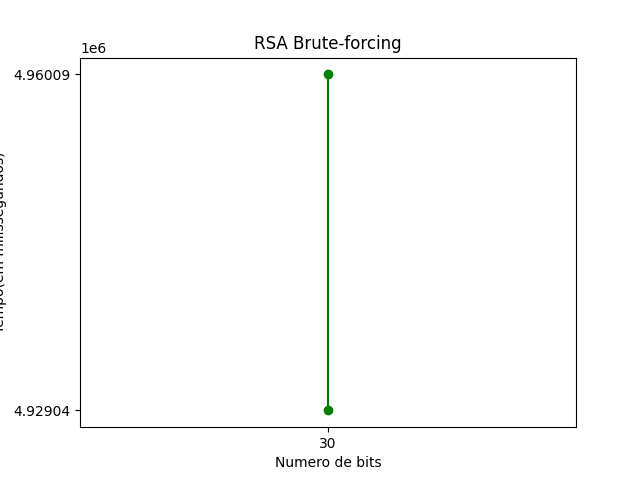
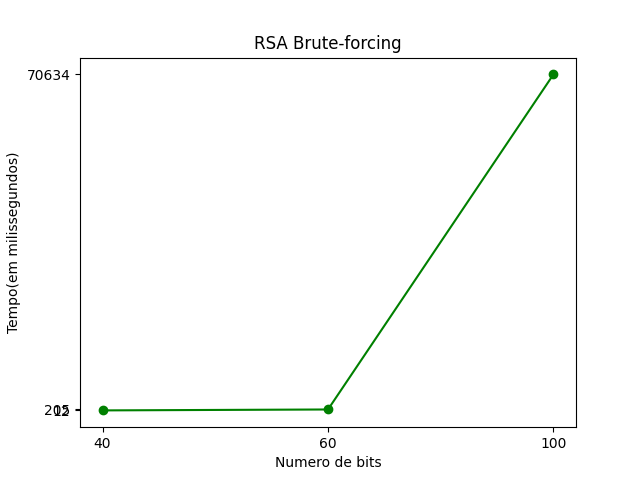
fix graphs

diff --git a/src/RSA.java b/src/RSA.java
@@ -28,7 +28,6 @@ class RSA {
       O construtor new Biginter(bitLenght,certainty,rnd) gera um numero PROVAVELMENTE primo, 
       onde essa probabilidade é de ( 1 - 1/2 ^ certainty)
     */
-    Instant generate_key_start = Instant.now();
     BigInteger p = new BigInteger(bitlen /2, 100, secureRandom); 
     BigInteger q = new BigInteger(bitlen /2, 100, secureRandom); 
 
@@ -55,7 +54,6 @@ class RSA {
     // d deve ser o inverso multiplicativo de "e"
     d = euclidian_extended(e,phi);
 
-    Instant generate_key_end = Instant.now();
     
     System.out.println("Bits: " + bitlen);
     System.out.println("Chave Publica (n,e)");
@@ -70,10 +68,8 @@ class RSA {
     
     
     // Define a mensagem cifrada
-    Instant generate_cipher_start = Instant.now();
     CIPHER_MESSAGE = new BigInteger(MESSAGE.getBytes()).modPow(e, n).toString();
     System.out.println("MENSAGEM CIFRADA:\n"+ CIPHER_MESSAGE);
-    Instant generate_cipher_end = Instant.now();
     
     
     // Define a mensagem decifrada
@@ -117,38 +113,19 @@ class RSA {
     
 
     // Escreve os tempos nos arquivos
-    File keyFile;
-    File cipherFile;
     File bruteFile;
     
-    PrintWriter keyWriter = null;
-    PrintWriter cipherWriter = null;
     PrintWriter bruteWriter = null;
     try{
-
-      // key
-      keyFile = new File("key.txt");
-      keyWriter = new PrintWriter(new FileWriter(keyFile,true));
-      keyWriter.print(bitlen + " ");
-      keyWriter.println(Duration.between(generate_key_start, generate_key_end).toMillis());
-      
-      // cipher
-      cipherFile = new File("cipher.txt");
-      cipherWriter = new PrintWriter(new FileWriter(cipherFile,true));
-      cipherWriter.print(bitlen + " ");
-      cipherWriter.println(Duration.between(generate_cipher_start, generate_cipher_end).toNanos());
-
       // brute
       bruteFile = new File("brute.txt");
       bruteWriter = new PrintWriter(new FileWriter(bruteFile,true));
       bruteWriter.print(bitlen + " ");
-      bruteWriter.println(Duration.between(brute_force_start, brute_force_end).toNanos());
+      bruteWriter.println(Duration.between(brute_force_start, brute_force_end).toMillis());
     
     } catch(IOException f) {
         System.err.println(f);
     } finally {
-        if (keyWriter!=null) keyWriter.close();
-        if (cipherWriter!=null) cipherWriter.close();
         if (bruteWriter!=null) bruteWriter.close();
     }
  }

diff --git a/src/script.py b/src/script.py
@@ -13,35 +13,5 @@ for line in open('brute.txt', 'r'):
 plt.title("RSA Brute-forcing")
 plt.xlabel('Numero de bits')
 plt.ylabel('Tempo(em milissegundos)')
-plt.yticks(time)
 plt.plot(bitlen, time, marker = 'o', c = 'g')
 plt.savefig('graphs/brute.png')
-
-bitlen = []
-time = []
-for line in open('cipher.txt', 'r'):
-    lines = [i for i in line.split()]
-    bitlen.append(lines[0])
-    time.append(int(lines[1]))
-      
-plt.title("RSA - Ciphering")
-plt.xlabel('Numero de bits')
-plt.ylabel('Tempo(em nanossegundos)')
-plt.yticks(time)
-plt.plot(bitlen, time, marker = 'o', c = 'g')
-plt.savefig('graphs/cipher.png')
-
-
-bitlen = []
-time = []
-for line in open('key.txt', 'r'):
-    lines = [i for i in line.split()]
-    bitlen.append(lines[0])
-    time.append(int(lines[1]))
-      
-plt.title("RSA - Key Generate")
-plt.xlabel('Numero de bits')
-plt.ylabel('Tempo(em milissegundos)')
-plt.yticks(time)
-plt.plot(bitlen, time, marker = 'o', c = 'g')
-plt.savefig('graphs/key.png')
